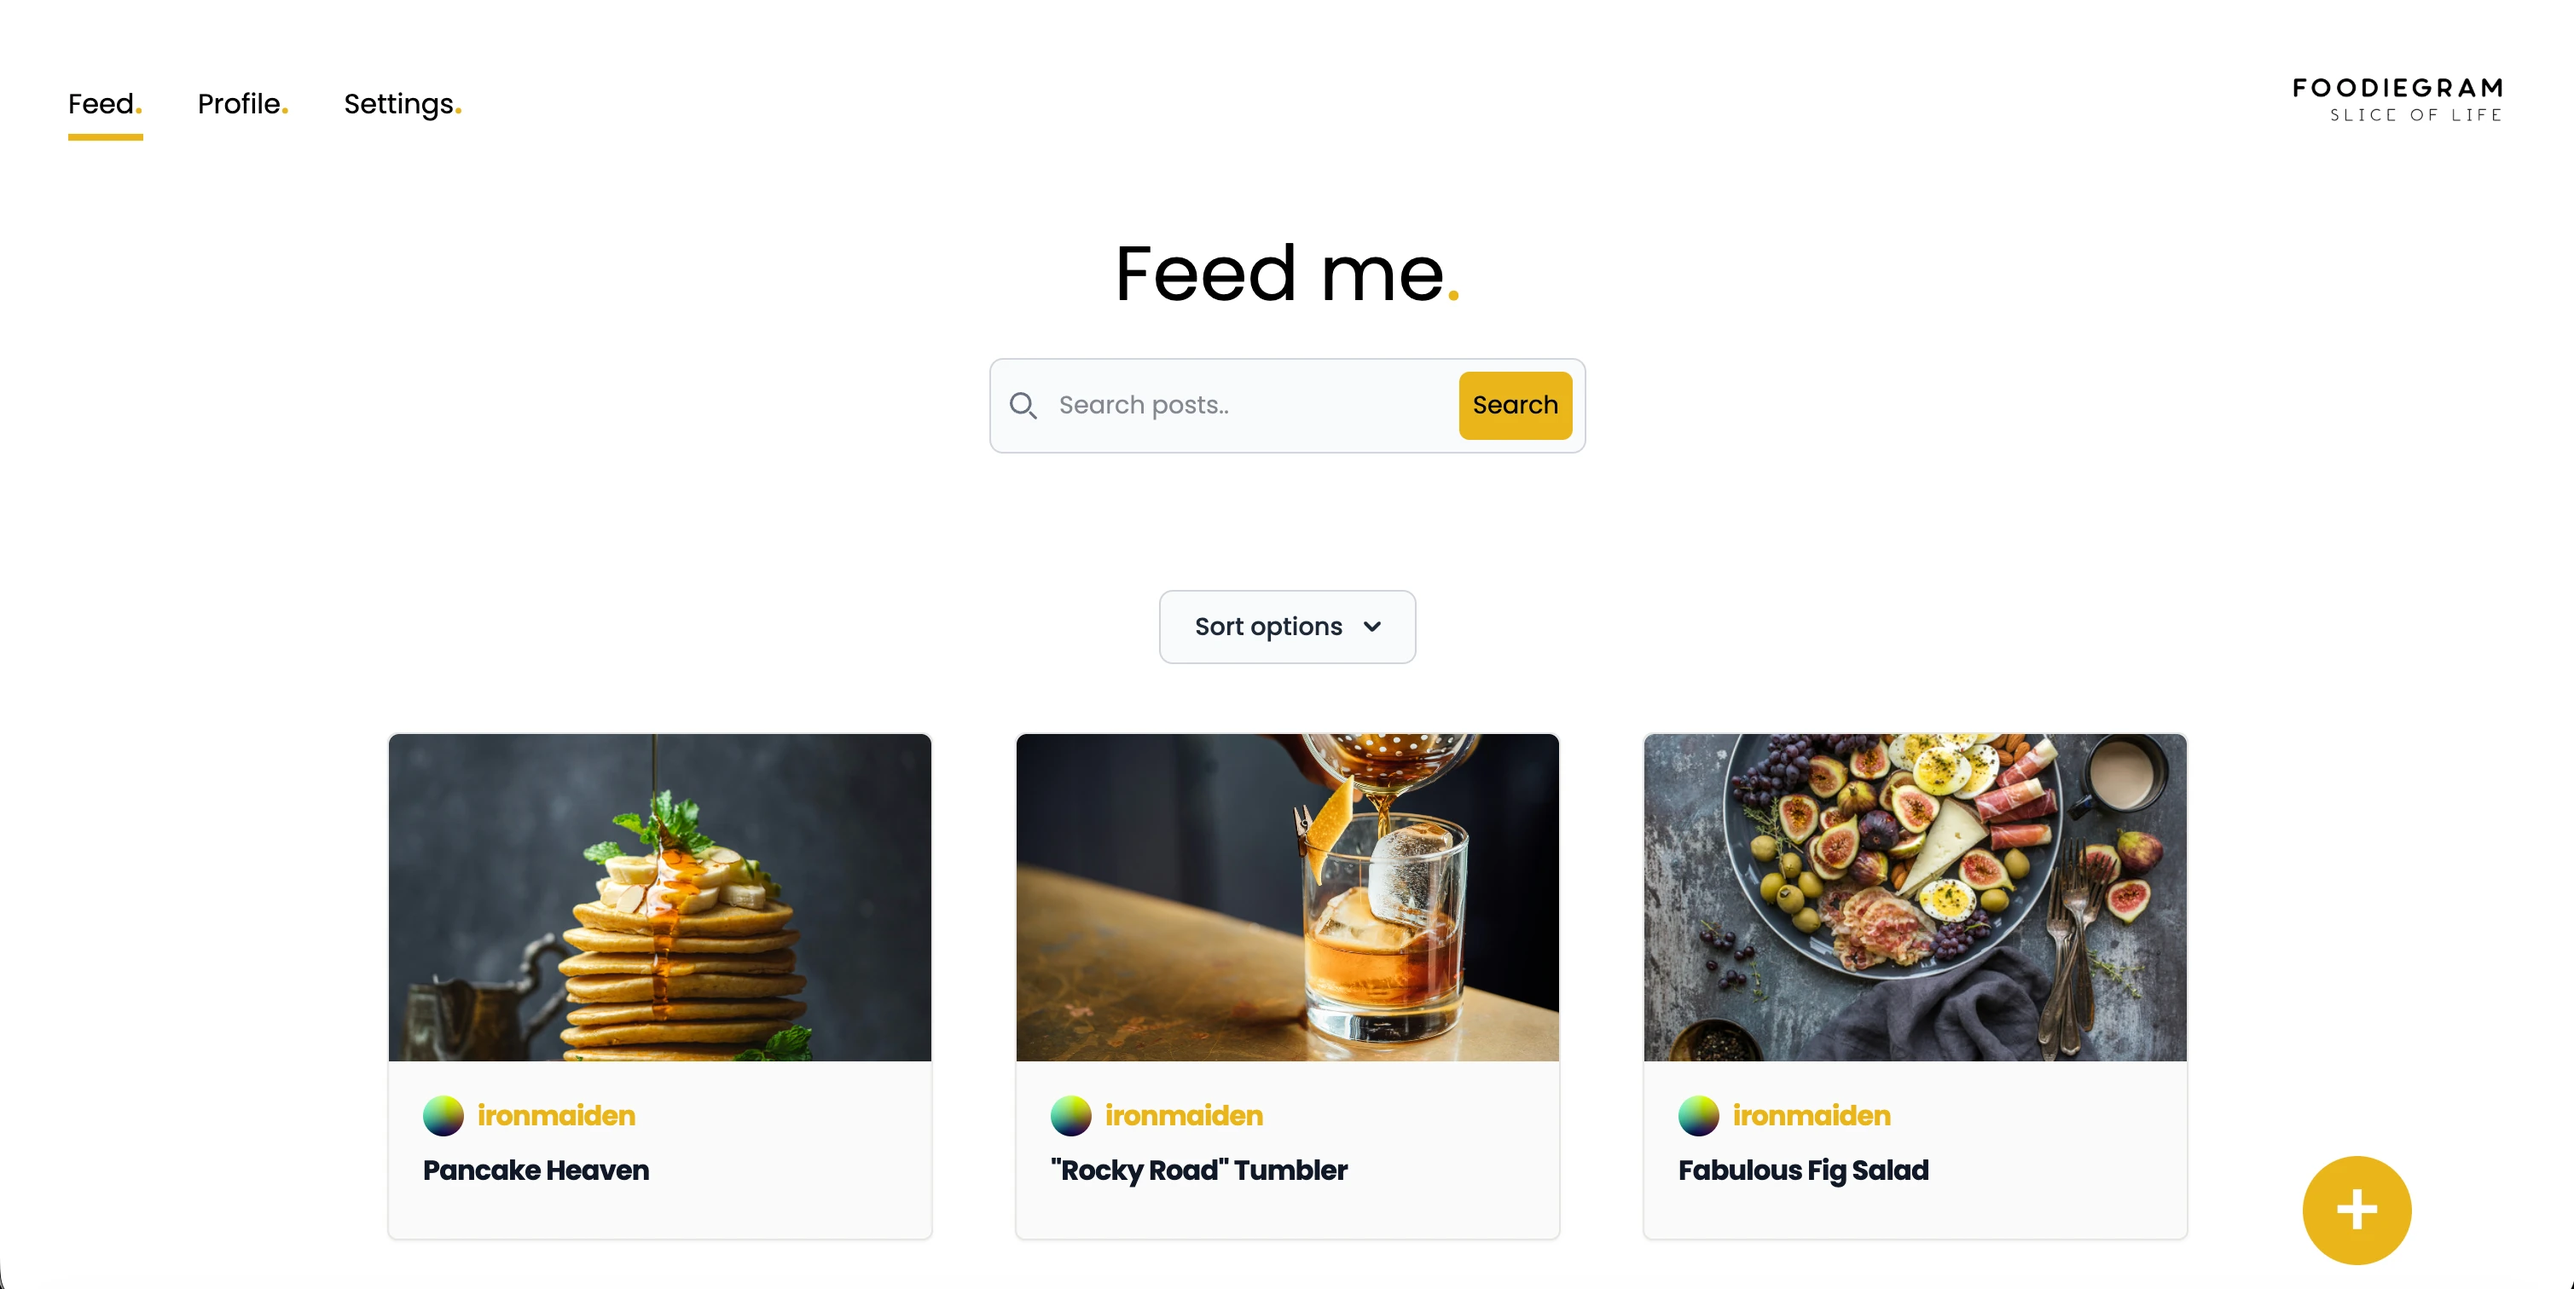
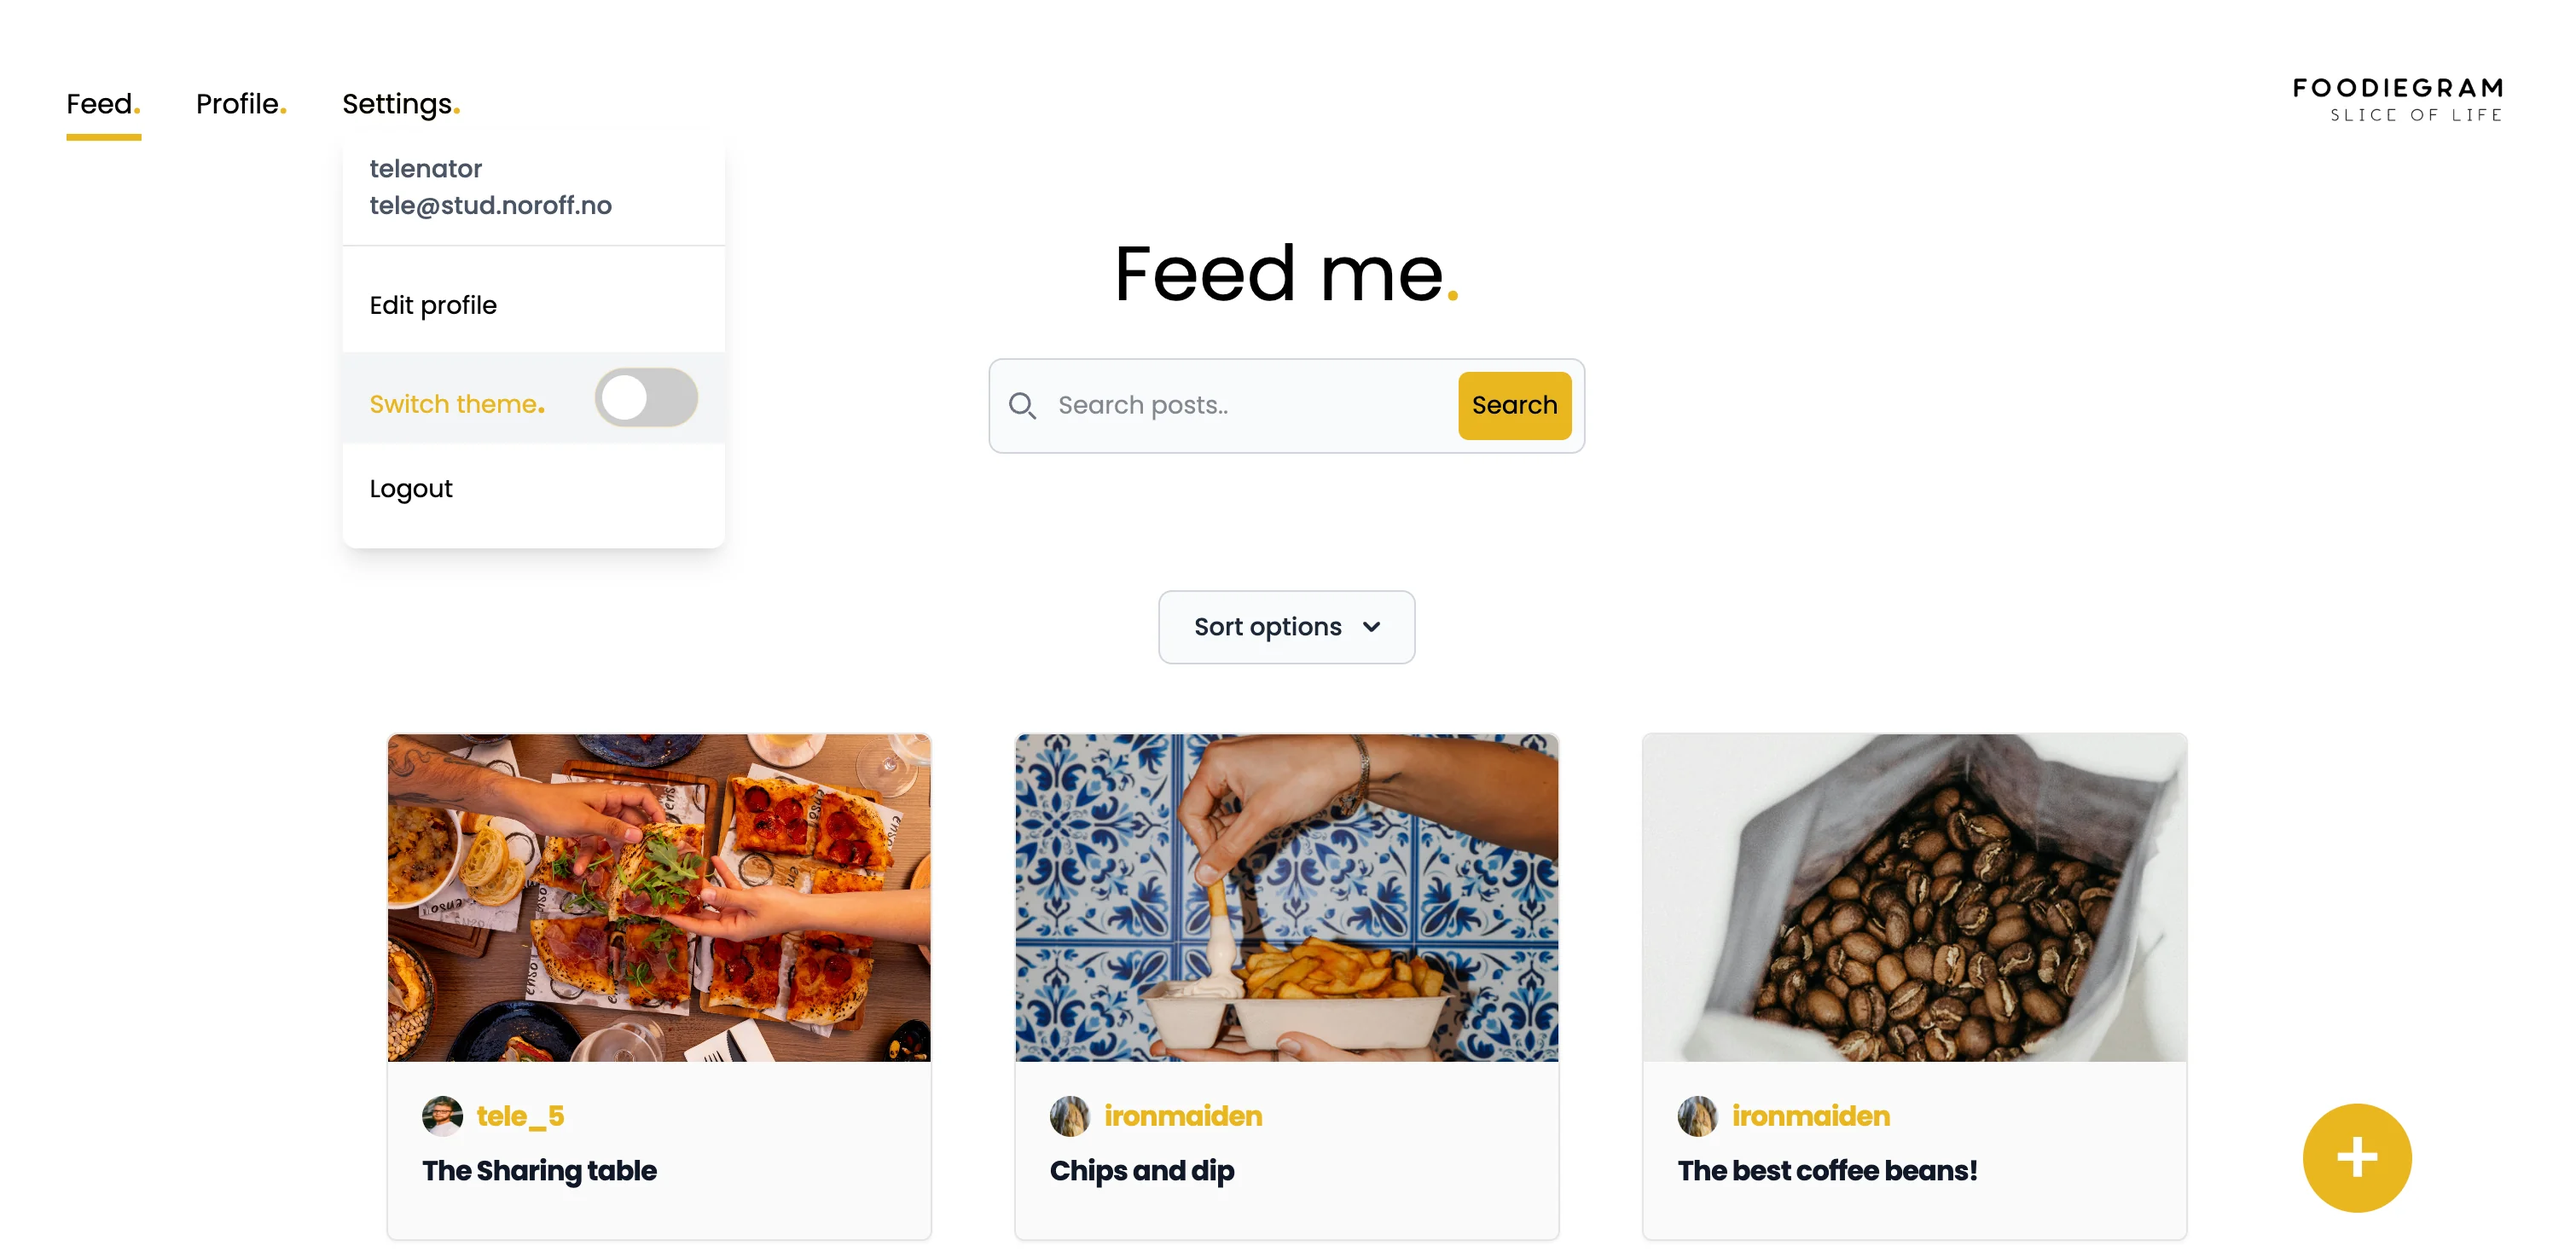
Display alternative project image feat: add image switcher to enable displaying both light and dark mode images of the project (ProjectDescription, ProjectGallery) feat: configure shared hook useAlternativeImage to find and return the image and switch chore: extended Project type with detailImage2 a

diff --git a/src/components/projects/ProjectDescription.tsx b/src/components/projects/ProjectDescription.tsx
@@ -1,3 +1,4 @@
+import { useAlternativeImage } from "@/hooks/useAlternativeImage";
 import type { Project } from "@/data/type";
 
 interface ProjectDescriptionProps {
@@ -5,6 +6,11 @@ interface ProjectDescriptionProps {
 }
 
 export const ProjectDescription = ({ project }: ProjectDescriptionProps) => {
+  const { showAlt, setShowAlt, hasAlt, src } = useAlternativeImage({
+    mainImage: project.detailImage,
+    subImage: project.detailImage2,
+  });
+
   return (
     <section id="project-description" className="grid gap-20">
       <div
@@ -33,14 +39,23 @@ export const ProjectDescription = ({ project }: ProjectDescriptionProps) => {
 
           <div>
             <img
-              src={project.detailImage}
+              src={src}
               alt={`Detail image of ${project.title}`}
-              className="h-auto w-full rounded-md"
+              className="rounded-md object-contain"
             />
-
             <span className="mt-2 flex justify-end text-mono-body italic">
               {project.detailCaption}
             </span>
+            {hasAlt && (
+              <button
+                type="button"
+                onClick={() => setShowAlt((prev) => !prev)}
+                aria-pressed={showAlt}
+                className="text-mono text-mono-body text-accent underline underline-offset-4"
+              >
+                {showAlt ? "Show dark theme" : "Show light theme"}
+              </button>
+            )}
           </div>
         </div>
       </div>

diff --git a/src/components/projects/ProjectGallery.tsx b/src/components/projects/ProjectGallery.tsx
@@ -1,3 +1,4 @@
+import { useAlternativeImage } from "@/hooks/useAlternativeImage";
 import type { Project } from "@/data/type";
 
 interface ProjectGalleryProps {
@@ -5,6 +6,11 @@ interface ProjectGalleryProps {
 }
 
 export const ProjectGallery = ({ project }: ProjectGalleryProps) => {
+  const { showAlt, setShowAlt, hasAlt, src } = useAlternativeImage({
+    mainImage: project.coverImage,
+    subImage: project.coverImage2,
+  });
+
   return (
     <section
       id="project-gallery"
@@ -13,13 +19,23 @@ export const ProjectGallery = ({ project }: ProjectGalleryProps) => {
     >
       <div className="items-center self-stretch rounded-md">
         <img
-          src={project.coverImage}
+          src={src}
           alt={project.title}
           className="rounded-md object-contain"
         />
         <span className="mt-2 flex justify-end text-mono-body italic">
           {project.caption}
         </span>
+        {hasAlt && (
+          <button
+            type="button"
+            onClick={() => setShowAlt((prev) => !prev)}
+            aria-pressed={showAlt}
+            className="text-mono text-mono-body text-accent underline underline-offset-4"
+          >
+            {showAlt ? "Show dark theme" : "Show light theme"}
+          </button>
+        )}
       </div>
     </section>
   );

diff --git a/src/data/projects.ts b/src/data/projects.ts
@@ -62,10 +62,12 @@ export const projects: Project[] = [
     stack: ["HTML", "Tailwind CSS", "JavaScript"],
     year: "2025",
     caption:
-      "The feed page with the list of posts, sort options and a search bar.",
+      "The feed page with the list of posts, sort, search and the settings menu open.",
     detailCaption: "Post detail page showing the post and comment section.",
-    coverImage: "/projects/foodiegram/foodiegram-feed-light.webp",
-    detailImage: "/projects/foodiegram/foodiegram-post.webp",
+    coverImage: "/projects/foodiegram/foodiegram-feed-dark.webp",
+    coverImage2: "/projects/foodiegram/foodiegram-feed-light.webp",
+    detailImage: "/projects/foodiegram/foodiegram-post-dark.webp",
+    detailImage2: "/projects/foodiegram/foodiegram-post-light.webp",
     repo: "https://github.com/telecasteren/social-app-noroff",
     url: "https://foodiegram.telecasternilsen.com",
     goal: "Build a social media app where users post images and interact through likes and comments, using TypeScript and Tailwind CSS.",

diff --git a/src/hooks/useAlternativeImage.ts b/src/hooks/useAlternativeImage.ts
@@ -1,0 +1,22 @@
+import { useEffect, useState } from "react";
+
+interface UseAlternativeImageProps {
+  mainImage: string;
+  subImage?: string;
+}
+
+export const useAlternativeImage = ({
+  mainImage,
+  subImage,
+}: UseAlternativeImageProps) => {
+  const [showAlt, setShowAlt] = useState(false);
+
+  useEffect(() => {
+    if (subImage) new Image().src = subImage;
+  }, [subImage]);
+
+  const hasAlt = Boolean(subImage);
+  const src = showAlt && subImage ? subImage : mainImage;
+
+  return { showAlt, setShowAlt, hasAlt, src };
+};

diff --git a/src/data/type.ts b/src/data/type.ts
@@ -12,7 +12,9 @@ export type Project = {
   url: string;
   repo: string;
   coverImage: string;
+  coverImage2?: string;
   detailImage: string;
+  detailImage2?: string;
   goal: string;
   process: string;
   lesson: string;
